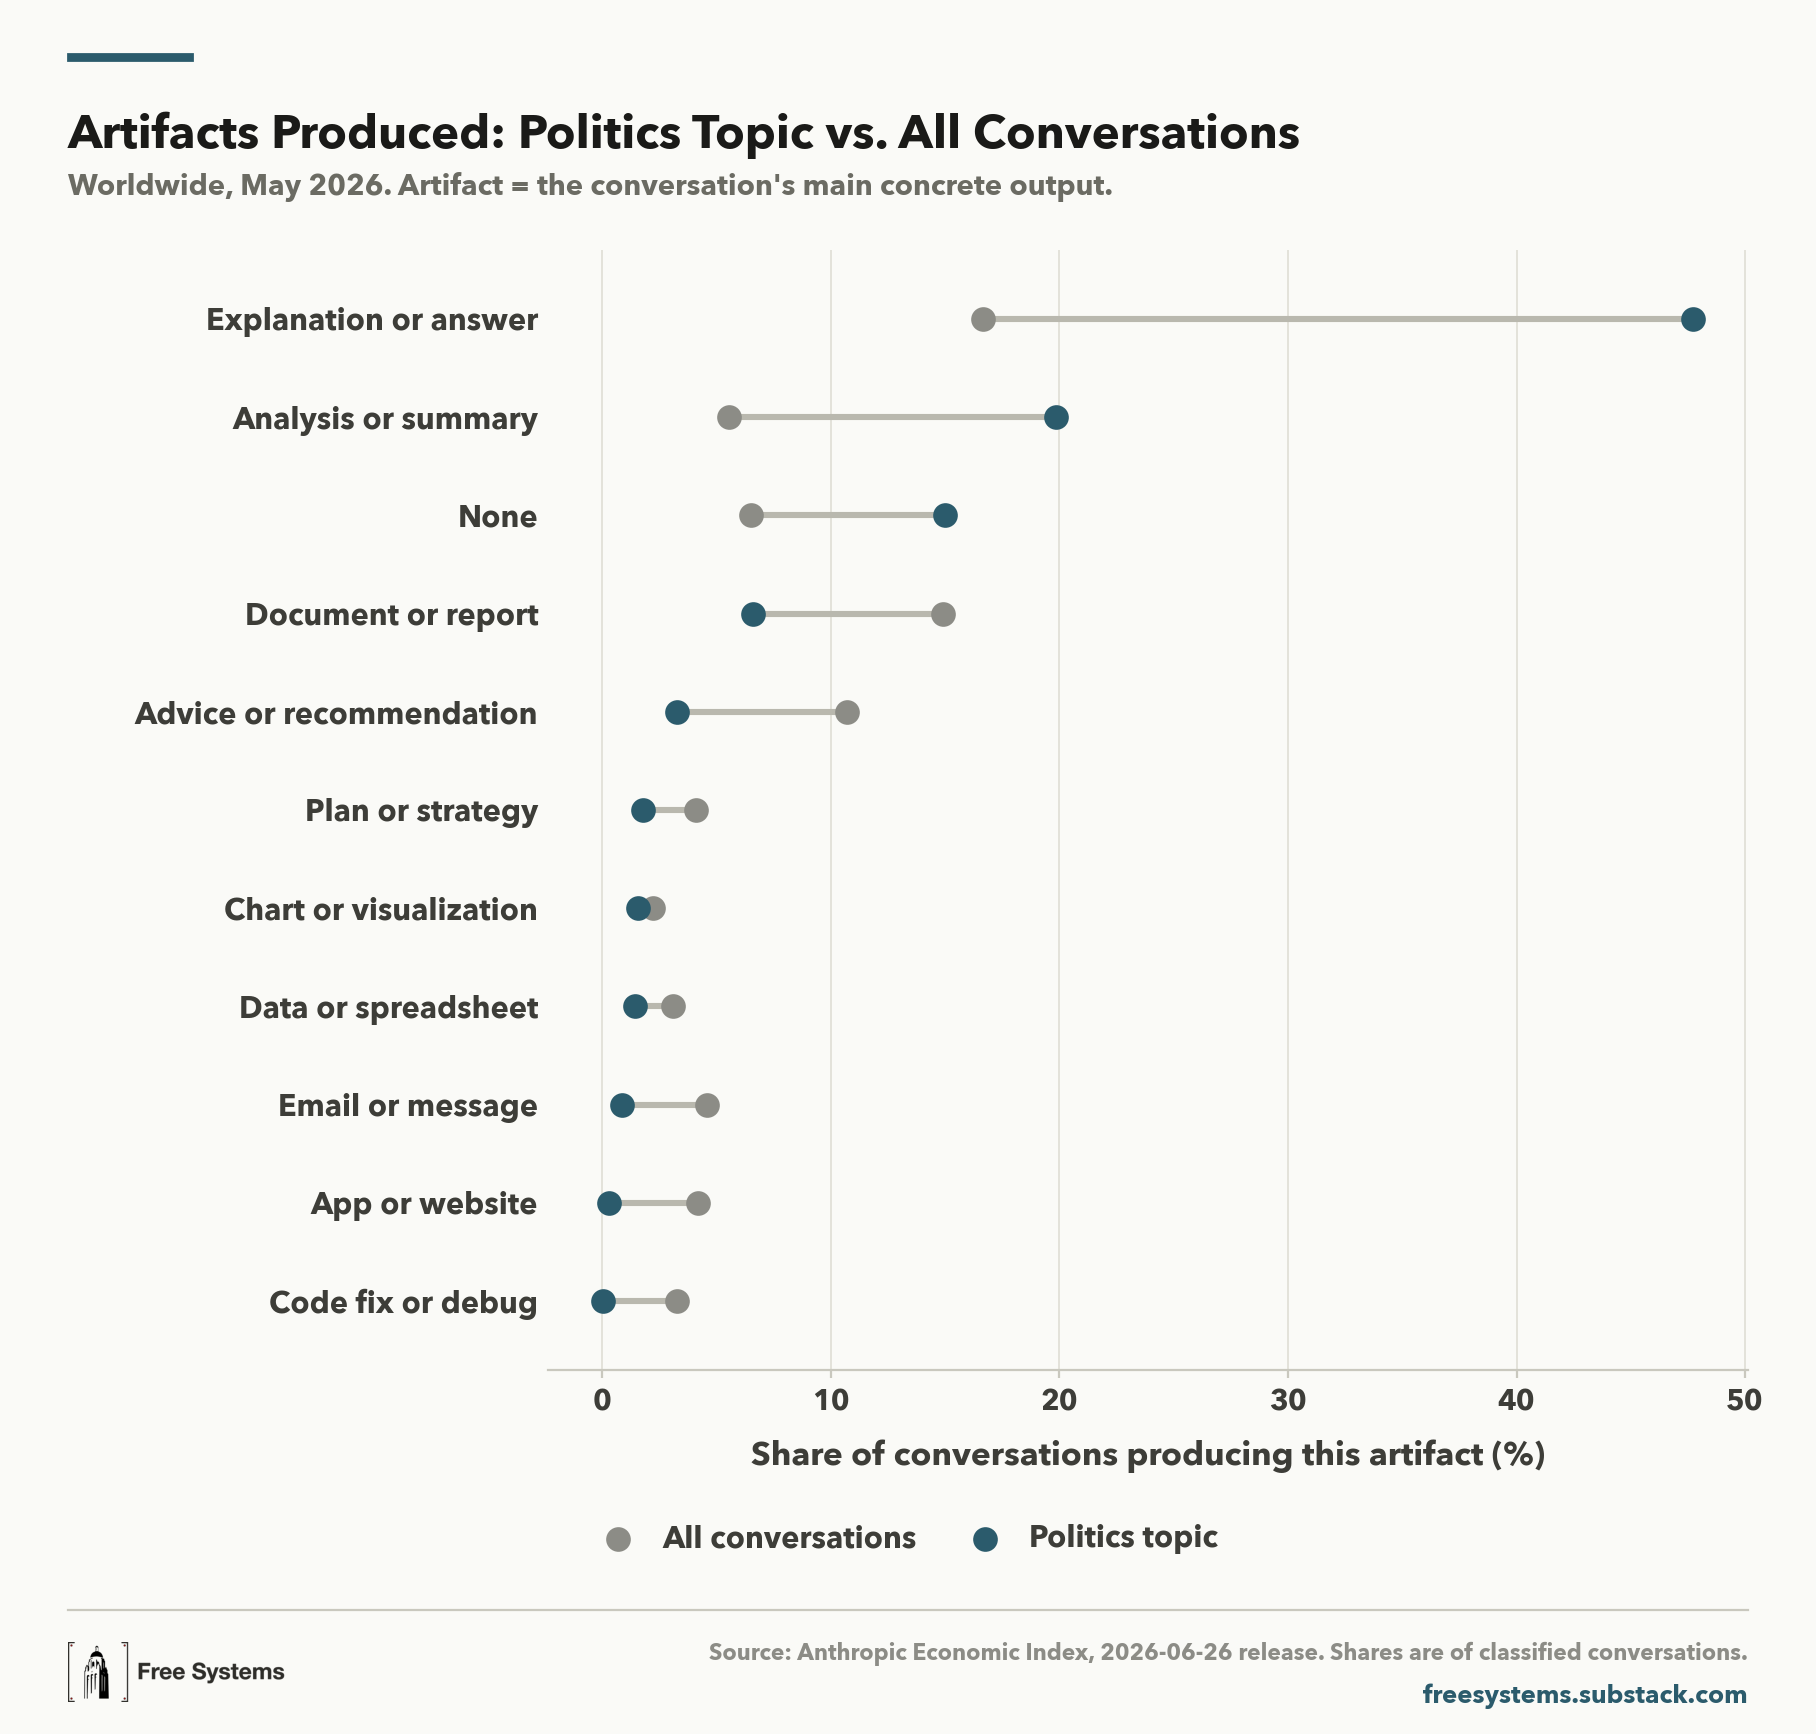
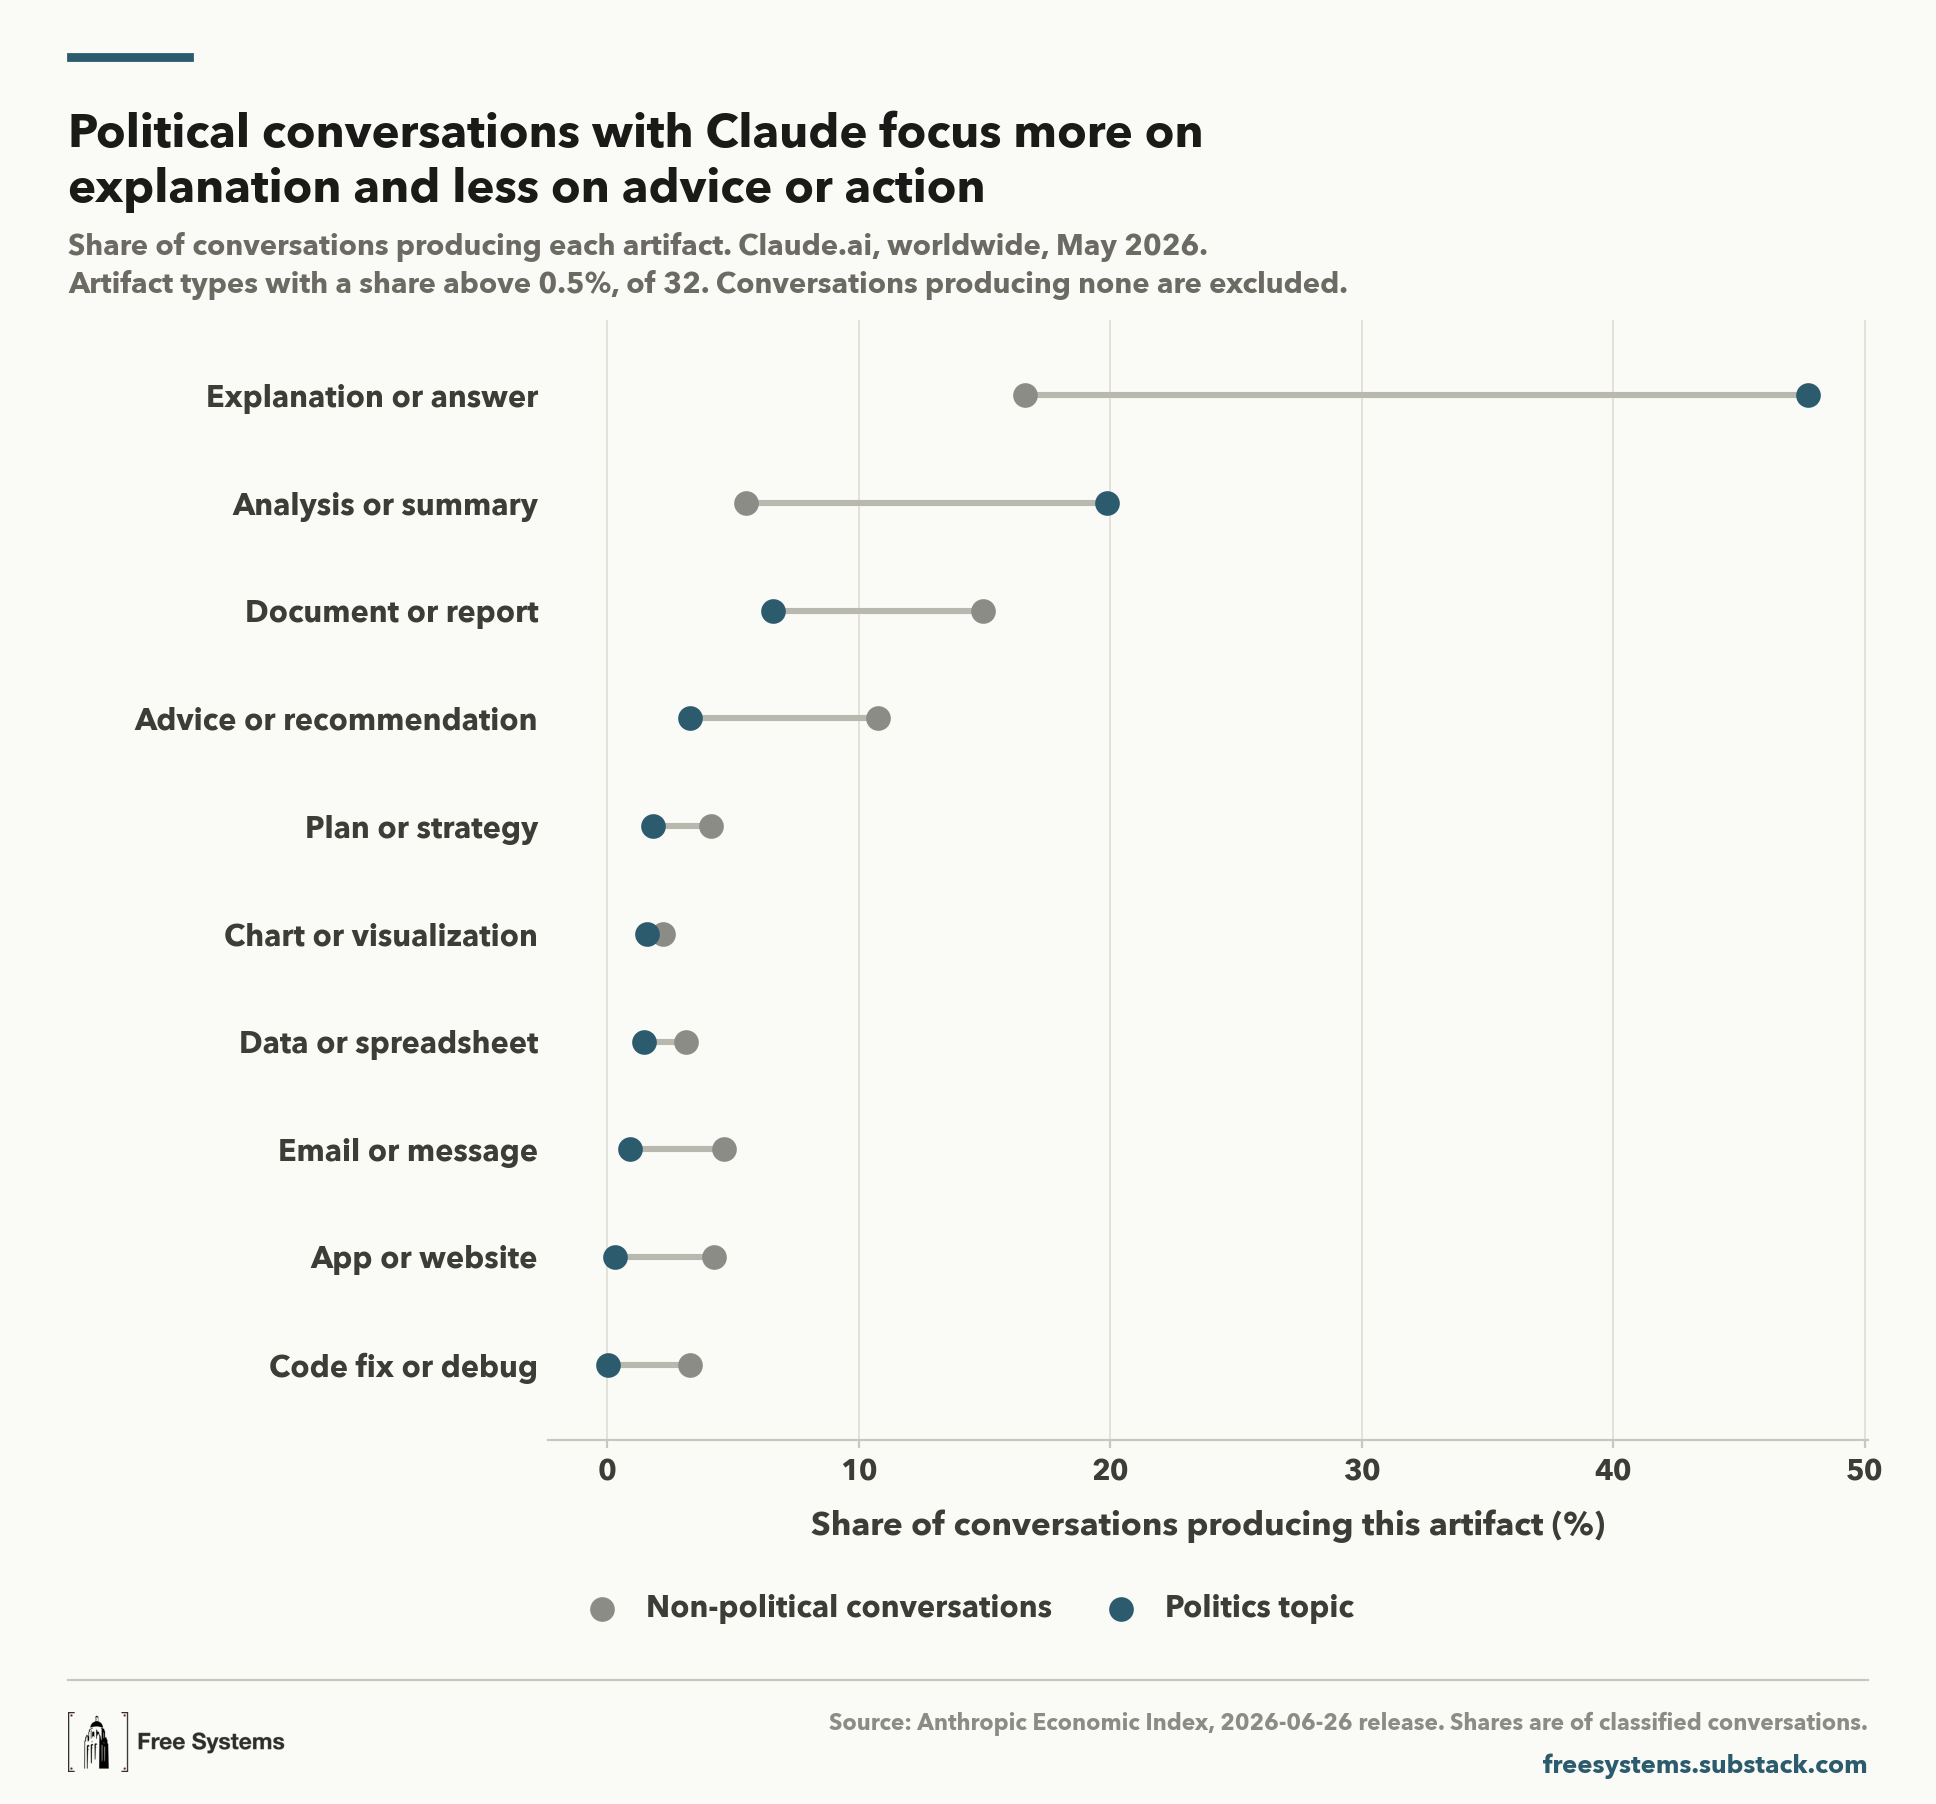
Make the artifacts figure shareable, and fix its comparison series
The figure now states its finding in the title and names the platform, so it
survives being screenshotted away from the piece:

  "Political conversations with Claude focus more on explanation and less on
   advice or action"

Adds share_x_artifacts.png, a 16:9 card sized for an X timeline (the post's
near-square figures get letterboxed in preview). Six rows instead of ten, and
a callout on the top bar naming the multiple, because at thumbnail size a
dumbbell reads as "blue is right of grey" without conveying how far.

Three accuracy fixes that came out of building it:

  - The comparison series was AEI's "overall" category, which INCLUDES the
    political conversations, so labelling it non-political would have been
    false. analysis.py now backs politics out of it (all = w*politics +
    (1-w)*rest, w = 0.30%). The adjustment is tiny -- explanation 16.68 ->
    16.59, ratio 2.86 -> 2.88 -- but the label is now literally true.
  - The selection rule is stated in the subtitle. The plot showed 10 of 32
    artifact types with no statement of why those ten; on a chart built to
    travel alone, an unstated rule is what gets called cherry-picking.
  - "Claude.ai", not "Claude": the AEI file is consumer conversations only, so
    anything generated through the API is invisible here.

Also drops the "none" artifact (the absence of an artifact, not a kind of one)
and teaches finish() to lay out multi-line titles.

diff --git a/code/figures.py b/code/figures.py
@@ -151,8 +151,13 @@ def finish(fig, W, H, pal, title, subtitle, branded):
                              color=pal["accent"], transform=fig.transFigure,
                              clip_on=False))
     fig.text(x0, 1 - 0.56 / H, title, ha="left", va="top", fontsize=17,
-             fontweight="bold", color="#1A1A18", family=pal["family"])
-    fig.text(x0, 1 - 0.86 / H, subtitle, ha="left", va="top", fontsize=10.5,
+             fontweight="bold", color="#1A1A18", family=pal["family"],
+             linespacing=1.25)
+    # The subtitle sits below however many lines the title takes, so a
+    # two-line title pushes it down instead of printing on top of it. A figure
+    # with a multi-line title also needs a taller head= in the registry.
+    sub_y = 0.56 + 0.30 * (title.count("\n") + 1)
+    fig.text(x0, 1 - sub_y / H, subtitle, ha="left", va="top", fontsize=10.5,
              color="#6B6B63", family=pal["family"], linespacing=1.35)
 
     fig.add_artist(plt.Line2D([x0, 1 - x0], [(FOOT - 0.10) / H] * 2,
@@ -284,27 +289,68 @@ def f2_countries(axes, pal, fig):
             "Twelve highest and twelve lowest countries, May 2026.")
 
 
-def f3_artifacts(axes, pal, fig):
+def _artifacts(axes, pal, fig, top_n=None, callout=False):
+    """Politics vs all conversations, by the artifact the conversation produced.
+
+    "none" is dropped: it is the absence of an artifact rather than a kind of
+    one. The remaining selection rule is stated in the subtitle -- there are 32
+    artifact types and showing all of them is unreadable, so leaving the rule
+    implicit would be cherry-picking.
+    """
     a = pd.read_csv(DERIV / "artifacts.csv")
-    a = a[(a.politics >= 0.5) | (a.all_convos >= 3)].copy()
+    n_types = len(a)
+    a = a[a.artifact != "none"].copy()
+    if top_n:                                  # the biggest gaps either way
+        a = a.reindex(a["diff"].abs().sort_values(ascending=False).index).head(top_n)
+    else:
+        a = a[(a.politics >= 0.5) | (a.non_politics >= 3)]
     a["label"] = a.artifact.str.replace("_", " ").str.capitalize()
     a = a.sort_values("politics")
+
     ax = axes[0]
     y = np.arange(len(a))
-    ax.hlines(y, a.all_convos, a.politics, color=pal["flat"], lw=2.2, zorder=2)
-    ax.scatter(a.all_convos, y, s=62, color=pal["muted"], zorder=3,
-               label="All conversations")
+    ax.hlines(y, a.non_politics, a.politics, color=pal["flat"], lw=2.2, zorder=2)
+    ax.scatter(a.non_politics, y, s=62, color=pal["muted"], zorder=3,
+               label="Non-political conversations")
     ax.scatter(a.politics, y, s=62, color=pal["accent"], zorder=3,
                label="Politics topic")
     ax.set_yticks(y)
     ax.set_yticklabels(a.label)
-    ax.set_ylim(-0.7, len(a) - 0.3)
+    ax.set_ylim(-0.7, len(a) - 0.3 + (0.75 if callout else 0))
     style_axes(ax, pal)
     ax.set_xlabel("Share of conversations producing this artifact (%)",
                   fontsize=pal["base"] + 1, color=pal["axis"], labelpad=8)
     bottom_legend(fig, *ax.get_legend_handles_labels(), pal, 2)
-    return ("Artifacts Produced: Politics Topic vs. All Conversations",
-            "Worldwide, May 2026. Artifact = the conversation's main concrete output.")
+
+    if callout:
+        # At thumbnail size the dumbbells read as "blue is right of grey"
+        # without conveying by how much. Name the multiple on the top row.
+        top = a.iloc[-1]
+        ax.annotate(f"{top.politics / top.non_politics:.1f}x the rate for\n"
+                    f"non-political conversations",
+                    xy=(top.politics, len(a) - 1), xytext=(-6, 26),
+                    textcoords="offset points", ha="right", va="bottom",
+                    fontsize=pal["base"], fontweight="bold", color=pal["accent"],
+                    linespacing=1.3)
+
+    sel = (f"The {top_n} artifact types with the largest gap, of {n_types}."
+           if top_n else f"Artifact types with a share above 0.5%, of {n_types}.")
+    # Assertive, unlike the in-post figures: built to be shared on its own,
+    # where there is no surrounding prose to carry the finding. "Claude.ai" not
+    # "Claude" -- the AEI file is consumer conversations only, so anything
+    # generated through the API is invisible here.
+    return ("Political conversations with Claude focus more on\n"
+            "explanation and less on advice or action",
+            f"Share of conversations producing each artifact. Claude.ai, "
+            f"worldwide, May 2026.\n{sel} Conversations producing none are excluded.")
+
+
+def f3_artifacts(axes, pal, fig):
+    return _artifacts(axes, pal, fig)
+
+
+def f3_artifacts_share(axes, pal, fig):
+    return _artifacts(axes, pal, fig, top_n=6, callout=True)
 
 
 def f4_info_action(axes, pal, fig):
@@ -634,7 +680,7 @@ FIGS = [
     dict(key="country_shares", fn=f2_countries, out="post_03_F2_country_shares",
          w=7.2, h=6.6, rows=[1], left=0.9, bottom=1.1),
     dict(key="artifacts", fn=f3_artifacts, out="post_04_F3_artifacts",
-         w=8.4, h=5.6, rows=[1], left=2.4, bottom=1.1),
+         w=9.0, h=5.6, rows=[1], left=2.4, bottom=1.1, head=1.60),
     dict(key="info_action", fn=f4_info_action, out="post_05_F4_info_vs_action",
          w=9.6, h=5.2, rows=[1], left=2.2, bottom=1.1),
     dict(key="composition", fn=f5_composition, out="post_06_F5_how_conducted",
@@ -651,6 +697,15 @@ FIGS = [
          w=8.4, h=5.0, rows=[1], left=1.0, bottom=0.66),
     dict(key="turnout_scatter", fn=f10_turnout, out="post_11_F10_turnout_scatter",
          w=8.2, h=5.2, rows=[1], left=1.2, bottom=0.66),
+]
+
+
+# Rendered alongside the post but deliberately outside its numbering: a 16:9
+# card sized for an X timeline, where the post's near-square figures get
+# letterboxed or cropped in preview.
+SHARE = [
+    dict(key="artifacts_share", fn=f3_artifacts_share, out="share_x_artifacts",
+         w=11.0, h=3.3, rows=[1], left=2.4, bottom=1.1, head=1.60),
 ]
 
 
@@ -696,11 +751,11 @@ def main():
             shutil.rmtree(p) if p.is_dir() else p.unlink()
             print(f"[fig] retired {name}")
 
-    for spec in FIGS:
+    for spec in FIGS + SHARE:
         render(spec, FS, True, POST / f"{spec['out']}.png")
 
-    print(f"[fig] {len(FIGS)} figures -> {POST}")
-    for s in FIGS:
+    print(f"[fig] {len(FIGS)} figures + {len(SHARE)} share card -> {POST}")
+    for s in FIGS + SHARE:
         kb = (POST / f"{s['out']}.png").stat().st_size // 1024
         print(f"      {s['out']}.png  {kb} KB")
 

diff --git a/code/analysis.py b/code/analysis.py
@@ -216,6 +216,8 @@ def main() -> int:
     pd.DataFrame(rows).to_csv(DERIV / "composition.csv", index=False)
 
     # --- artifacts: politics vs all conversations ---------------------------
+    req_g = aei[(aei.geo_level == "global") & (aei.date_start == MAY) &
+                (aei.category_name == "request") & (aei.metric_id == "pct")]
     art_src = aei[(aei.geo_level == "global") & (aei.date_start == MAY) &
                   aei.metric_id.str.startswith("artifact_", na=False)]
     art_src = art_src[((art_src.category_name == "request") &
@@ -227,7 +229,16 @@ def main() -> int:
                            .str.replace("_pct", "", regex=False))
     art = art_src.pivot_table(index="artifact", columns="who",
                               values="value").reset_index()
-    art["diff"] = art.politics - art.all_convos
+    # AEI publishes the politics topic and ALL conversations, and "all"
+    # includes the political ones. Back them out so the comparison series is
+    # genuinely everything else: all = w*politics + (1-w)*rest, where w is the
+    # politics topic's share of global conversations. w is 0.30%, so this
+    # barely moves any number -- but it makes "non-political" a true label
+    # rather than a loose one.
+    w = float(req_g[(req_g.node_name == OUTCOME)].value.iloc[0]) / 100
+    art["non_politics"] = (art.all_convos - w * art.politics) / (1 - w)
+    art["diff"] = art.politics - art.non_politics
+    art.attrs["politics_share_global"] = w
     art.sort_values("politics", ascending=False).to_csv(
         DERIV / "artifacts.csv", index=False)
 
